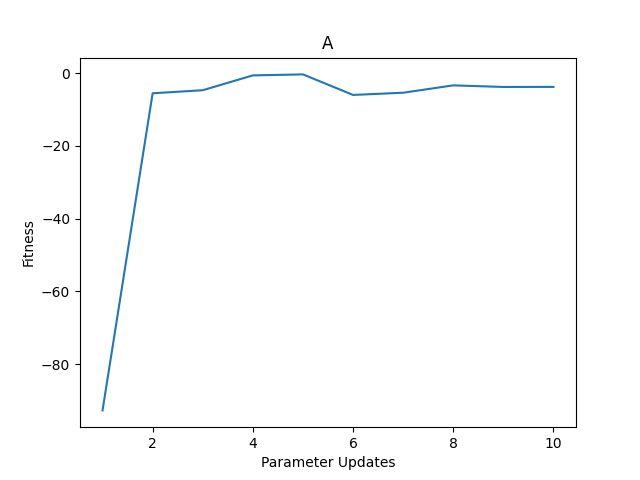
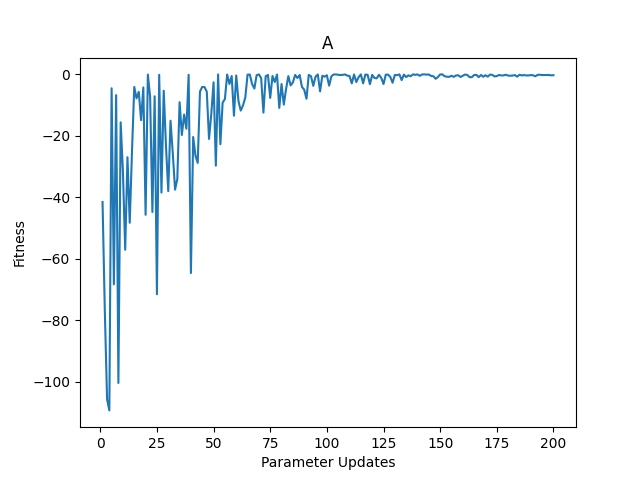
line env

diff --git a/run.py b/run.py
@@ -1,14 +1,21 @@
 import numpy as np
 
-from env.base import Env
+from env.base import BaseEnv
+from env.line import LineEnv
+
 from policy.linear import Policy
 from evolve.train import NES
 from evolve.visualize import plot
 
 
 np.random.seed(0)
-# params = np.random.randn(2)
-params = np.array([0.001, 0.001])
-params = NES('A', Env(), Policy, initial_params=params, num_episodes=10, lr=0.01, sigma=0.01, samples=10000)
+params = np.array([-0.001, -0.001])
+params = NES('A', BaseEnv(), Policy, initial_params=params, num_episodes=200, lr=1e-3, sigma=0.1, samples=10)
 print(params)
 plot('A')
+
+np.random.seed(0)
+params = np.array([-0.001, -0.001])
+params = NES('B', LineEnv(), Policy, initial_params=params, num_episodes=200, lr=1e-9, sigma=0.1, samples=10)
+print(params)
+plot('B')

diff --git a/env/line.py b/env/line.py
@@ -1,0 +1,21 @@
+import numpy as np
+
+class LineEnv:
+    def __init__(self):
+        self.max_t = 10
+
+    def reset(self):
+        self.t = 0
+
+        self.s = np.random.rand() * 10 - 5
+        return self.s
+
+    def step(self, a):
+        cost = self.s**2 + a**2
+        self.s += self.s + a
+
+        self.t += 1
+        # done = True if self.t > self.max_t or abs(self.s) < 0.01 else False
+        done = True if self.t > self.max_t else False
+
+        return self.s, -cost, done

diff --git a/evolve/visualize.py b/evolve/visualize.py
@@ -8,6 +8,7 @@ def plot(filename, show=False):
         data = pickle.load(f)
 
         # format and plot
+        plt.clf()
         plt.title(filename)
         plt.xlabel('Parameter Updates')
         plt.ylabel('Fitness')

diff --git a/env/base.py b/env/base.py
@@ -1,6 +1,6 @@
 import numpy as np
 
-class Env:
+class BaseEnv:
     def __init__(self):
         self.fn = lambda x: 3 * x
 
